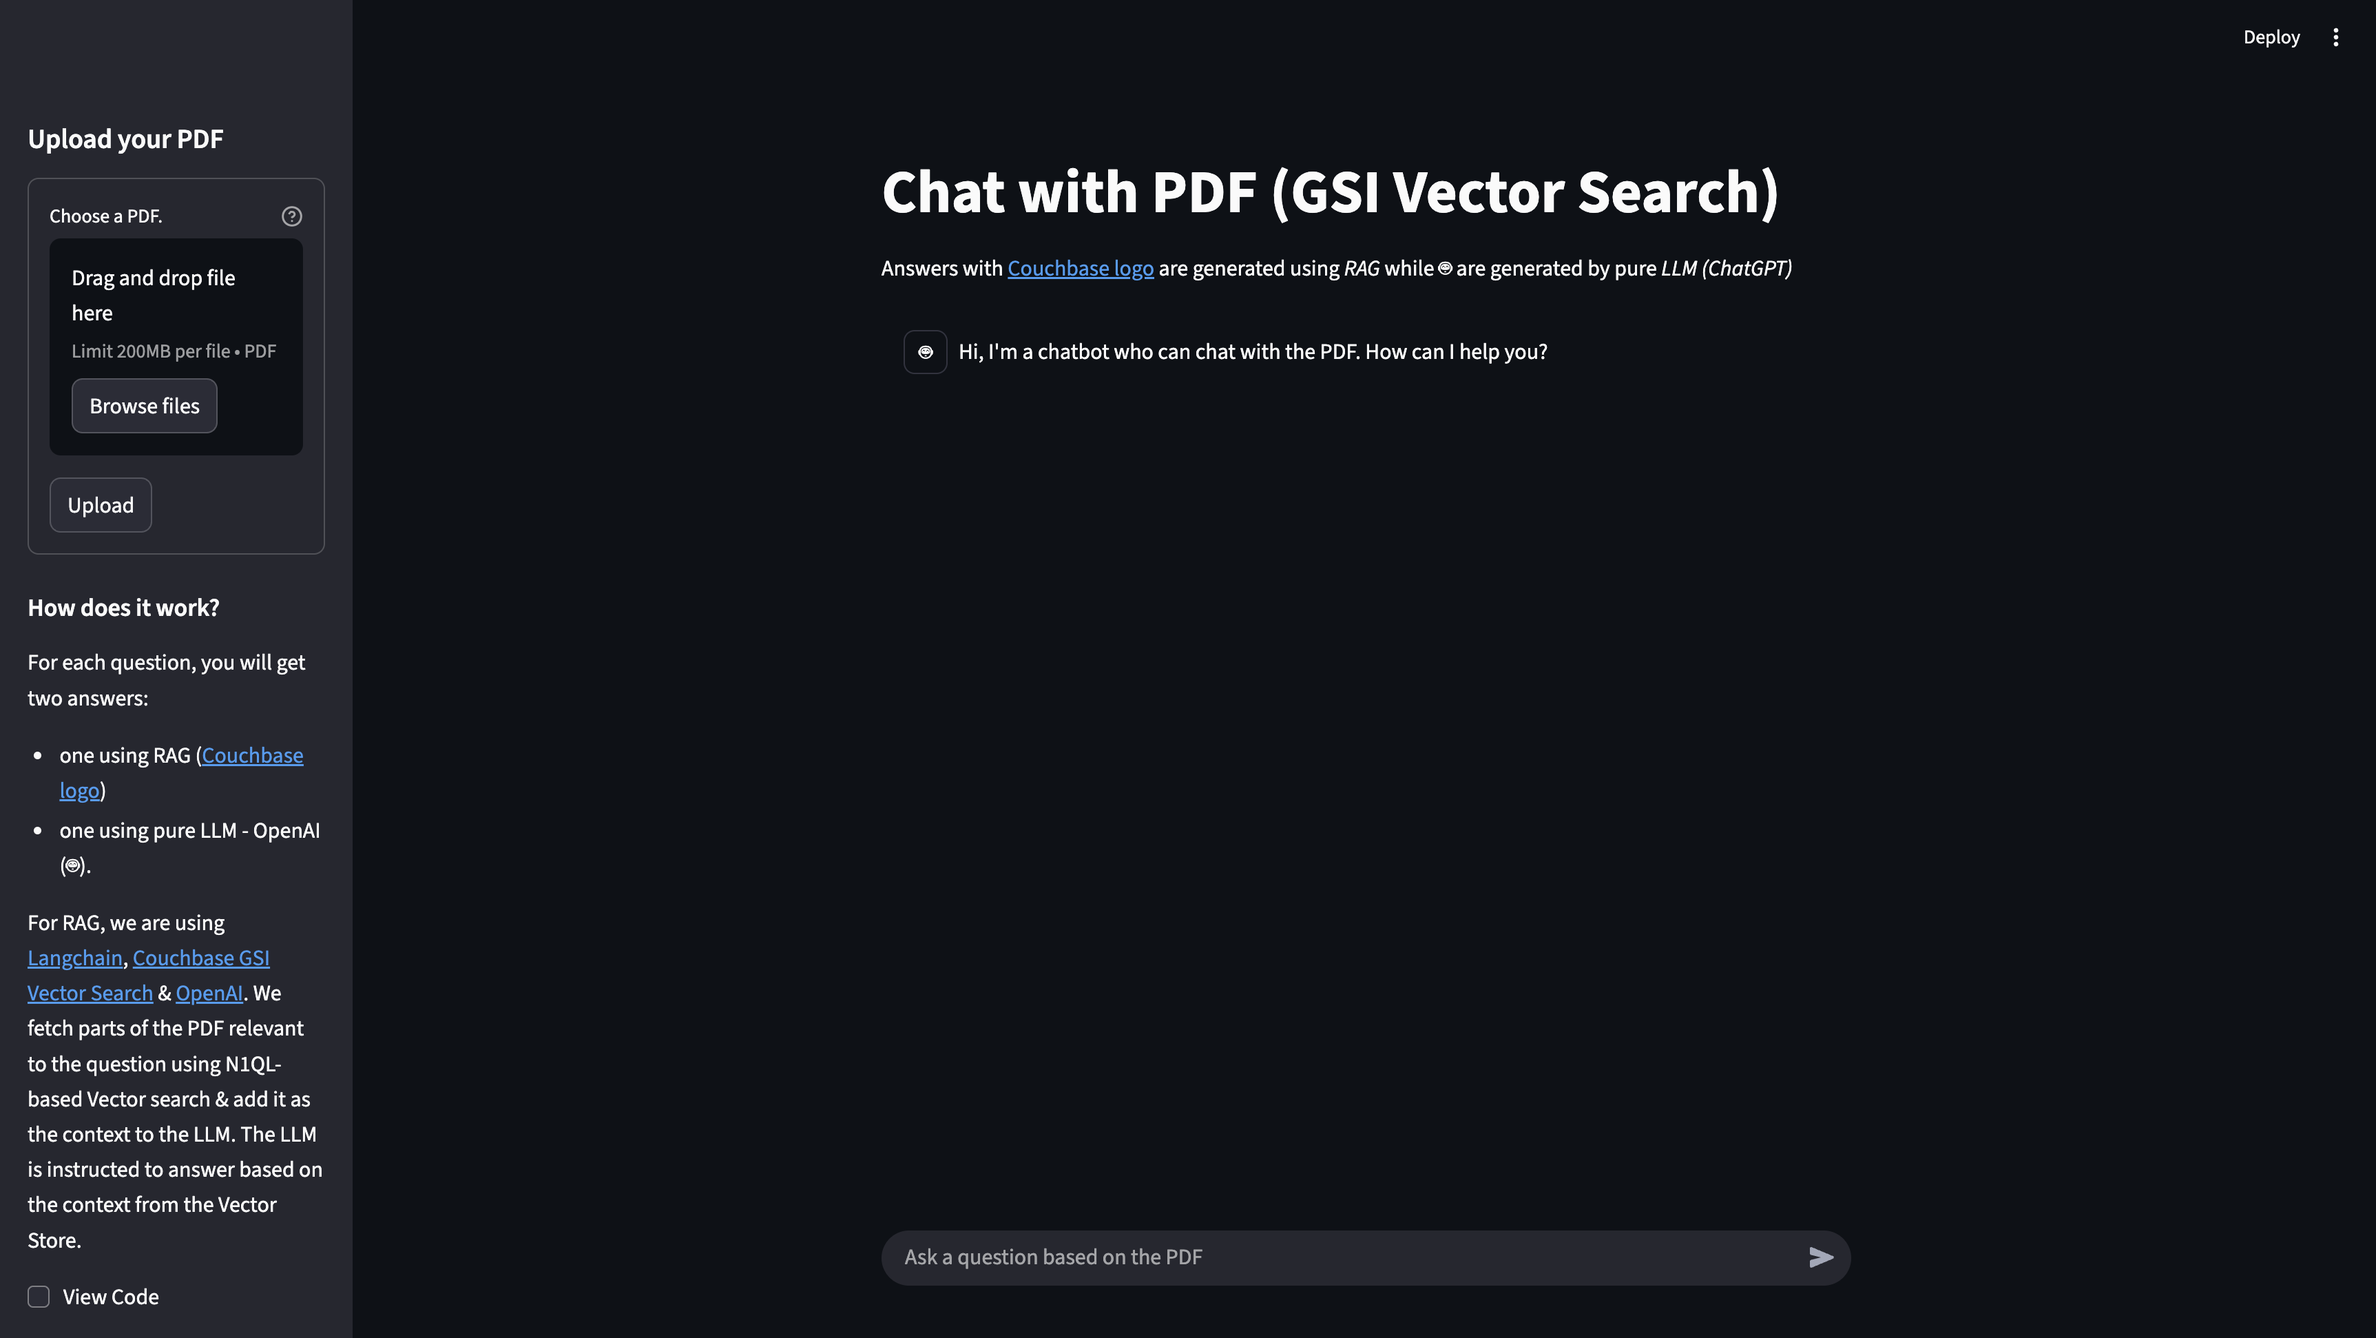
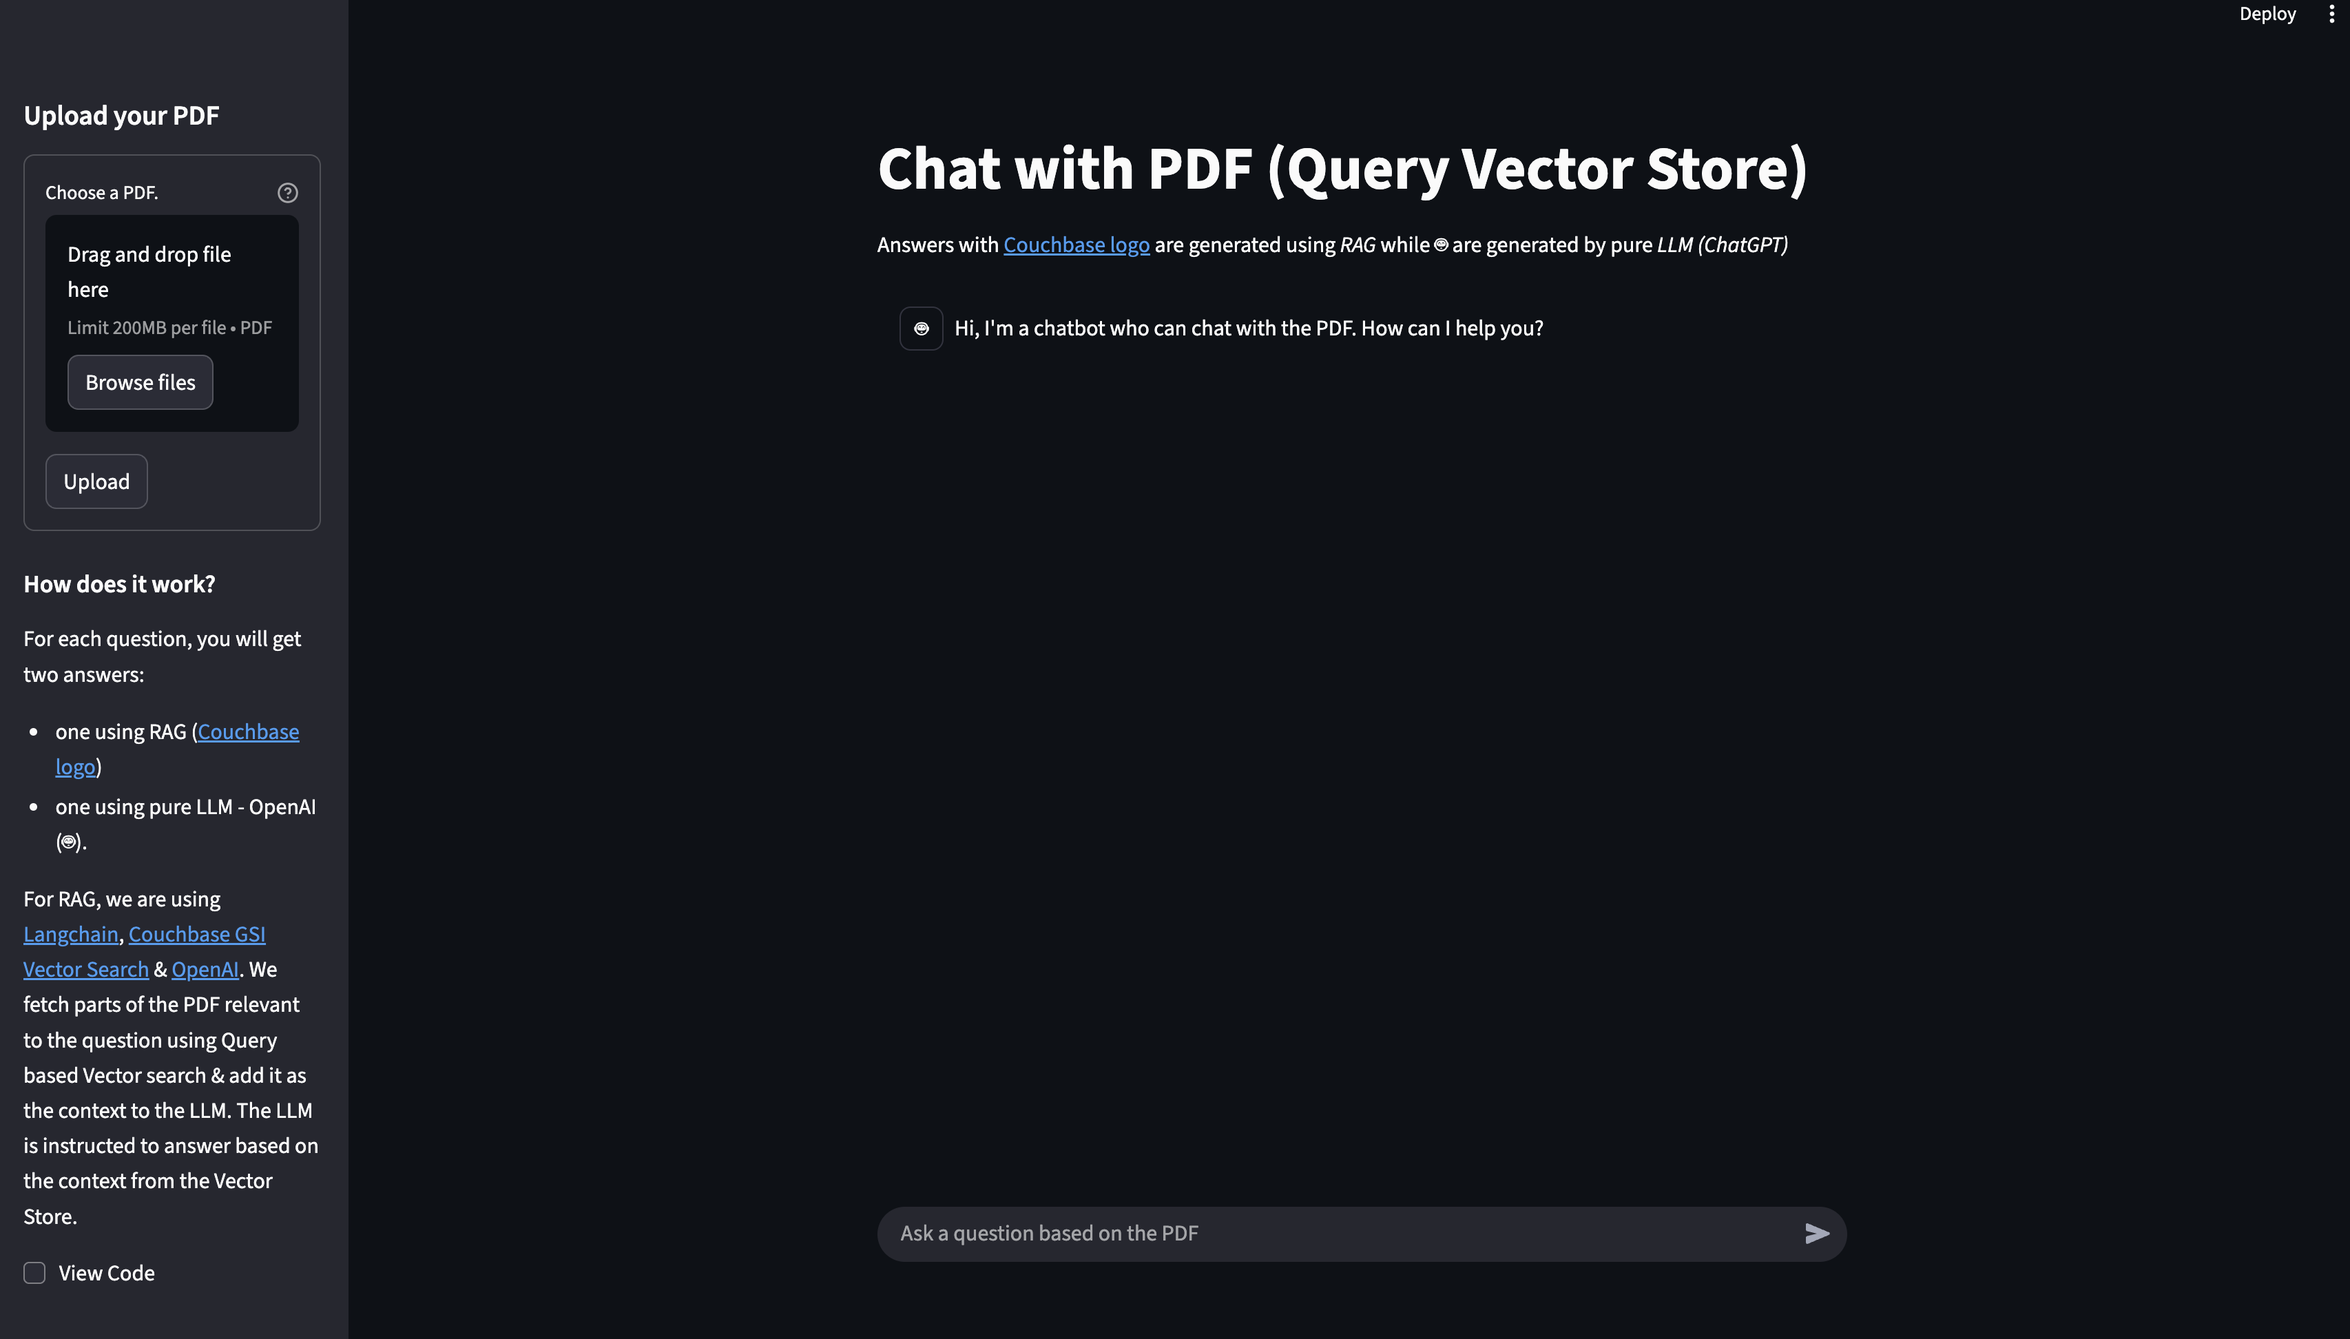
Addressed comments

diff --git a/tutorial/markdown/python/python-langchain-pdf-chat-query/python-langchain-pdf-chat-query.md b/tutorial/markdown/python/python-langchain-pdf-chat-query/python-langchain-pdf-chat-query.md
@@ -1,13 +1,14 @@
 ---
 # frontmatter
-path: "/tutorial-python-langchain-pdf-chat-query"
+path: "/tutorial-python-langchain-pdf-chat-with-hyperscale-or-composite-vector-index"
+alt_paths: ["/tutorial-python-langchain-pdf-chat-with-hyperscale-vector-index", "/tutorial-python-langchain-pdf-chat-with-composite-vector-index"]
 # title and description do not need to be added to markdown, start with H2 (##)
-title: Build PDF Chat App With Couchbase Python SDK, LangChain and Vector Search
-short_title: Build PDF Chat App (Vector Search)
+title: Build PDF Chat App with LangChain and Couchbase Hyperscale and Composite Vector Index
+short_title: Build PDF Chat App
 description:
-  - Construct a PDF Chat App with LangChain, Couchbase Python SDK, Couchbase Vector Search (Query Service), and Streamlit.
-  - Learn to upload PDFs into Couchbase Vector Store with LangChain using Query-based Vector Search.
-  - Discover how to use RAG's for context-based Q&A's from PDFs with LLMs.
+  - Construct a PDF Chat App with LangChain, Couchbase Python SDK, Query based Vector Store, and Streamlit.
+  - Learn to upload PDFs into Couchbase Query based Vector Store with LangChain.
+  - Discover how to use RAG for context-based Q&A from PDFs with LLMs.
 content_type: tutorial
 filter: sdk
 technology:
@@ -27,6 +28,8 @@ length: 45 Mins
 ## Introduction
 
 Welcome to this comprehensive guide on constructing an AI-enhanced Chat Application using Couchbase Vector Search. We will create a dynamic chat interface capable of delving into PDF documents to extract and provide summaries, key facts, and answers to your queries. By the end of this tutorial, you'll have a powerful tool at your disposal, transforming the way you interact with and utilize the information contained within PDFs.
+
+**This tutorial uses Query Based Vector Search** with Couchbase's Query Service and Hyperscale/Composite Vector Indexes. If you are looking for Vector Search using the Search service (formerly known as Full Text Search), refer to [this tutorial](https://developer.couchbase.com/tutorial-python-langchain-pdf-chat/) instead.
 
 This tutorial will demonstrate how to -
 
@@ -132,7 +135,7 @@ For more details on the `create_index()` method, see the [LangChain Couchbase AP
 
 The `index_description` parameter controls how Couchbase optimizes vector storage and search performance:
 
-**Format:** `'IVF[<centroids>],{PQ|SQ}<settings>'`
+**Format:** `IVF[<centroids>],{PQ|SQ}<settings>`
 
 **Centroids (IVF - Inverted File):**
 - Controls how the dataset is subdivided for faster searches
@@ -152,7 +155,7 @@ The `index_description` parameter controls how Couchbase optimizes vector storag
 
 For detailed configuration options, see the [Quantization & Centroid Settings](https://docs.couchbase.com/server/current/vector-index/hyperscale-vector-index.html#algo_settings).
 
-> **Note:** In Couchbase Vector Search, the distance represents the vector distance between the query and document embeddings. Lower distance indicates higher similarity, while higher distance indicates lower similarity. This demo uses cosine similarity for measuring document relevance.
+> **Note:** In Couchbase Vector Search, the distance represents the vector distance between the query and document embeddings. Lower distance indicates higher similarity, while higher distance indicates lower similarity. This demo uses cosine similarity for measuring document similarity.
 
 ### Setup Environment Config
 
@@ -177,9 +180,9 @@ LOGIN_PASSWORD = "<password to access the streamlit app>"
 
 > For this tutorial, `DB_BUCKET = pdf-chat`, `DB_SCOPE = _default`, `DB_COLLECTION = _default`.
 
-> Note: Unlike the Search-based approach, this method does NOT require `INDEX_NAME` as vector indexes are optional and automatically used when available.
+> Note: Unlike the [Search service based approach](https://developer.couchbase.com/tutorial-python-langchain-pdf-chat/), this method does NOT require `INDEX_NAME` as vector indexes are optional and automatically used when available.
 
-> Login_Password of Streamlit app is a basic password to access the app. You can set the password here and while using the app, password will be required to access the app.
+> `Login_Password` of Streamlit app is a basic password to access the app. You can set the password here and while using the app, password will be required to access the app.
 
 ### Running the Application
 
@@ -272,15 +275,15 @@ LangChain is a powerful library that simplifies the process of building applicat
 
 In the PDF Chat app, LangChain is used for several tasks:
 
-- **Loading and processing PDF documents**: LangChain's [_PDFLoader_](https://python.langchain.com/docs/modules/data_connection/document_loaders/pdf/) is used to load the PDF files and convert them into text documents.
-- **Text splitting**: LangChain's [_RecursiveCharacterTextSplitter_](https://python.langchain.com/docs/modules/data_connection/document_transformers/recursive_text_splitter/) is used to split the text from the PDF documents into smaller chunks or passages, which are more suitable for embedding and retrieval.
-- **Embedding generation**: LangChain integrates with [various embedding models](https://python.langchain.com/docs/modules/data_connection/text_embedding/), such as OpenAI's embeddings, to convert the text chunks into embeddings.
+- **Loading and processing PDF documents**: LangChain's [_PDFLoader_](https://docs.langchain.com/oss/python/integrations/document_loaders) is used to load the PDF files and convert them into text documents.
+- **Text splitting**: LangChain's [_RecursiveCharacterTextSplitter_](https://docs.langchain.com/oss/python/integrations/splitters) is used to split the text from the PDF documents into smaller chunks or passages, which are more suitable for embedding and retrieval.
+- **Embedding generation**: LangChain integrates with [various embedding models](https://docs.langchain.com/oss/python/integrations/text_embedding), such as OpenAI's embeddings, to convert the text chunks into embeddings.
 - **Vector store integration**: LangChain provides a [_CouchbaseQueryVectorStore_](https://couchbase-ecosystem.github.io/langchain-couchbase/langchain_couchbase.html#module-langchain_couchbase.vectorstores.query_vector_store) class that seamlessly integrates with Couchbase's Vector Search using Query Service, allowing the app to store and search through the embeddings and their corresponding text.
-- **Chains**: LangChain provides various [chains](https://python.langchain.com/docs/modules/chains/) for different requirements. For using RAG concept, we require _Retrieval Chain_ for Retrieval and _Question Answering Chain_ for Generation part. We also add _Prompts_ that guide the language model's behavior and output. These all are combined to form a single chain which gives output from user questions.
-- **Streaming Output**: LangChain supports [streaming](https://python.langchain.com/docs/expression_language/streaming/), allowing the app to stream the generated answer to the client in real-time.
-- **Caching**: LangChain's [caching layer](https://python.langchain.com/docs/modules/model_io/llms/llm_caching/) integrates with Couchbase to cache LLM responses, reducing costs and improving response times.
+- **Chains**: LangChain provides various [chains](https://api.python.langchain.com/en/latest/langchain/chains.html) for different requirements. For using RAG concept, we require _Retrieval Chain_ for Retrieval and _Question Answering Chain_ for Generation part. We also add _Prompts_ that guide the language model's behavior and output. These all are combined to form a single chain which gives output from user questions.
+- **Streaming Output**: LangChain supports [streaming](https://docs.langchain.com/oss/python/langchain/streaming), allowing the app to stream the generated answer to the client in real-time.
+- **Caching**: LangChain's [caching layer](https://langchain-doc.readthedocs.io/en/latest/modules/llms/examples/llm_caching.html) integrates with Couchbase to cache LLM responses, reducing costs and improving response times.
 
-By combining Vector Search with Couchbase Query Service, RAG, LLM Caching, and LangChain; the PDF Chat app can efficiently ingest PDF documents, convert their content into searchable embeddings, retrieve relevant information based on user queries and conversation context, cache LLM responses for repeated queries, and generate context-aware and informative responses using large language models. This approach provides users with a powerful and intuitive way to explore and interact with large PDF files.
+By combining Vector Search with Couchbase Query Service, RAG, LLM Caching, and LangChain, the PDF Chat app can efficiently ingest PDF documents, convert their content into searchable embeddings, retrieve relevant information based on user queries and conversation context, cache LLM responses for repeated queries, and generate context-aware and informative responses using large language models. This approach provides users with a powerful and intuitive way to explore and interact with large PDF files.
 
 ## Let us Understand the Flow
 
@@ -310,8 +313,7 @@ def connect_to_couchbase(connection_string, db_username, db_password):
 
     auth = PasswordAuthenticator(db_username, db_password)
     options = ClusterOptions(auth)
-    connect_string = connection_string
-    cluster = Cluster(connect_string, options)
+    cluster = Cluster(connection_string, options)
 
     # Wait until the cluster is ready for use.
     cluster.wait_until_ready(timedelta(seconds=5))
@@ -328,6 +330,8 @@ We will also initialize Couchbase vector store with Couchbase bucket info. First
 We will define the bucket, scope, and collection names from [Environment Variables](#setup-environment-config).
 
 ```python
+from langchain_couchbase.vectorstores import DistanceStrategy
+
 # Use OpenAI Embeddings
 embedding = OpenAIEmbeddings()
 
@@ -367,6 +371,8 @@ def get_vector_store(
     return vector_store
 ```
 
+> **Note:** The [`DistanceStrategy`](https://couchbase-ecosystem.github.io/langchain-couchbase/langchain_couchbase#couchbase-query-vector-store) enum from `langchain_couchbase.vectorstores` provides different distance metrics for vector similarity: `COSINE`, `EUCLIDEAN_DISTANCE`, and `DOT_PRODUCT`. In this tutorial, we use `COSINE` similarity which measures the cosine of the angle between two vectors.
+
 ## Uploading And Ingesting PDF
 
 `save_to_vector_store` function takes care of uploading the PDF file in vector format to Couchbase Database using CouchbaseQueryVectorStore in LangChain. It splits text into small chunks, generate embeddings for those chunks, and ingest the chunks and their embeddings into a Couchbase vector store. Let's go step by step on how it does.
@@ -392,7 +398,7 @@ with st.form("upload pdf"):
 
 This function ensures that the uploaded PDF file is properly handled, loaded, and prepared for storage or processing in the vector store. It first checks if file was actually uploaded. Then the uploaded file is saved to a temporary file in `binary` format.
 
-From the temporary file, PDF is loaded in [PyPDFLoader](https://python.langchain.com/docs/modules/data_connection/document_loaders/pdf/) from the LangChain library which loads the PDF into [LangChain Document](https://python.langchain.com/docs/modules/data_connection/document_loaders/) Format
+From the temporary file, PDF is loaded in [PyPDFLoader](https://reference.langchain.com/python/langchain_core/document_loaders/) from the LangChain library which loads the PDF into [LangChain Document](https://reference.langchain.com/python/langchain_core/document_loaders/) Format
 
 ```python
 def save_to_vector_store(uploaded_file, vector_store):
@@ -409,7 +415,7 @@ def save_to_vector_store(uploaded_file, vector_store):
 
 ### Split Documents
 
-This LangChain document array will contain huge individual files which defeats the purpose while retrieval as we want to send more relevant context to LLM. So we will split it into smaller chunks or passages using LangChain's [_RecursiveCharacterTextSplitter_](https://python.langchain.com/docs/modules/data_connection/document_transformers/recursive_text_splitter/):
+This LangChain document array will contain huge individual files which defeats the purpose while retrieval as we want to send more relevant context to LLM. So we will split it into smaller chunks or passages using LangChain's [_RecursiveCharacterTextSplitter_](https://docs.langchain.com/oss/python/integrations/splitters):
 
 - chunk_size: 1500: This parameter specifies that each chunk should contain approximately 1500 characters.
 - chunk_overlap: 150: This parameter ensures that there is an overlap of 150 characters between consecutive chunks. This overlap helps maintain context and prevent important information from being split across chunk boundaries.
@@ -426,7 +432,7 @@ doc_pages = text_splitter.split_documents(docs)
 
 ### Add Documents to Vector Store
 
-We will utilize the vector store created at [Initialize OpenAI and Couchbase Vector Store](#initialize-openai-and-couchbase-vector-store). In this we will add the documents using add_documents method of Couchbase vector store. This method will utilize the OpenAI embeddings to create embeddings(vectors) from text and add it to Couchbase documents in the specified collection.
+We will utilize the vector store created at [Initialize OpenAI and Couchbase Vector Store](#initialize-openai-and-couchbase-vector-store). In this we will add the documents using `add_documents` method of Couchbase vector store. This method will utilize the OpenAI embeddings to create embeddings(vectors) from text and add it to Couchbase documents in the specified collection.
 
 ```python
 vector_store.add_documents(doc_pages)
@@ -457,7 +463,7 @@ We will be using LCEL chains in next few sections and will see how LCEL optimize
 
 ### Create Retriever Chain
 
-We also create the [retriever](https://python.langchain.com/docs/modules/data_connection/retrievers/vectorstore) of the couchbase vector store. This retriever will be used to retrieve the previously added documents which are similar to current query.
+We also create the [retriever](https://docs.langchain.com/oss/python/integrations/retrievers) of the couchbase vector store. This retriever will be used to retrieve the previously added documents which are similar to current query.
 
 ```python
 retriever = vector_store.as_retriever()
@@ -535,7 +541,7 @@ This section creates an interactive chat interface where users can ask questions
    - Create a placeholder for streaming the assistant's response.
    - Use the chain.invoke(question) method to generate the response from the RAG chain.
    - The response is automatically cached by the CouchbaseCache layer.
-   - [Stream](https://python.langchain.com/docs/use_cases/question_answering/streaming/) the response in real-time using the custom `stream_string` function.
+   - [Stream](https://docs.langchain.com/oss/python/langchain/streaming) the response in real-time using the custom `stream_string` function.
    - Add the final assistant's response to the chat history.
 
 This setup allows users to have a conversational experience, asking questions related to the uploaded PDF, with responses generated by the RAG chain and streamed in real-time. Both the user's questions and the assistant's responses are displayed in the chat interface, along with their respective roles and avatars.
